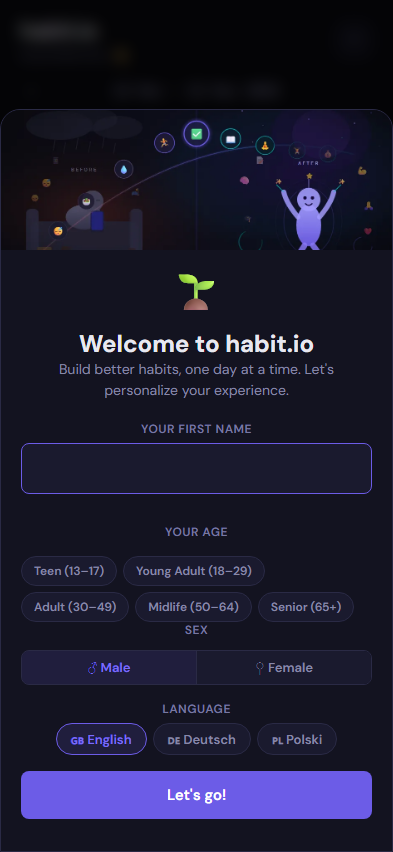
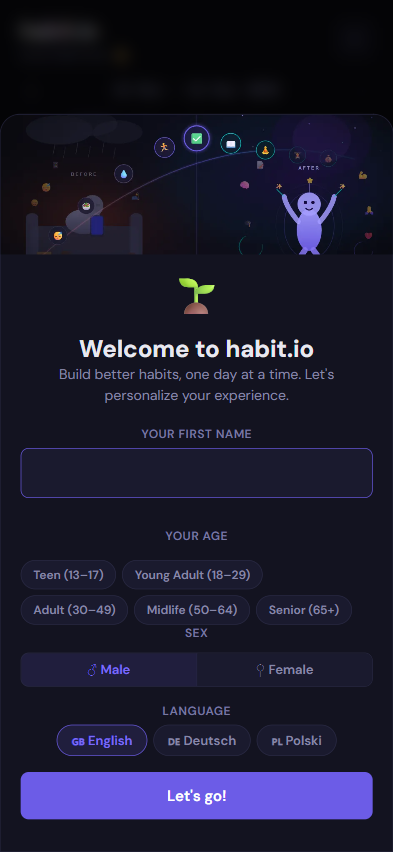
fix: full-screen onboarding on mobile — hero visible, CTA always on screen
Restructured welcome modal to flex-column layout occupying full 100dvh:
hero image pinned top, form fields scrollable in middle, Let's go! CTA
sticky at bottom so it is never hidden below the fold on small devices.

diff --git a/index.html b/index.html
@@ -161,58 +161,53 @@
 
     <!-- WELCOME MODAL -->
     <div class="modal-overlay" id="welcome-modal">
-      <div class="modal" style="text-align: center; padding-top: 0; overflow: hidden">
-        <div style="margin: 0 -24px 16px; border-radius: 14px 14px 0 0; overflow: hidden; line-height: 0">
+      <div class="modal welcome-modal-inner">
+        <!-- Hero image pinned at top -->
+        <div class="welcome-hero">
           <picture>
             <source srcset="icons/hero-onboarding.webp" type="image/webp" />
-            <img src="icons/hero-onboarding.png" alt="" width="400" height="140" fetchpriority="high" style="width: 100%; height: 140px; object-fit: cover; object-position: center 30%" />
+            <img src="icons/hero-onboarding.png" alt="" width="400" height="140" fetchpriority="high" />
           </picture>
         </div>
-        <div style="font-size: 36px; margin: 0 0 12px">🌱</div>
-        <h2 id="welcome-title">Welcome to Habitio</h2>
-        <p
-          style="
-            font-size: 14px;
-            color: var(--text-dim);
-            margin-bottom: 20px;
-            line-height: 1.5;
-          "
-          id="welcome-sub"
-        ></p>
-        <div class="welcome-field">
-          <label id="wl-name-label" for="welcome-name">Your first name</label
-          ><input
-            class="modal-input"
-            id="welcome-name"
-            type="text"
-            maxlength="20"
-            autocomplete="given-name"
-          />
-        </div>
-        <div class="welcome-field" style="gap:12px">
-          <div style="display:flex;flex-direction:column;gap:6px">
-            <label id="wl-age-label">Your age</label>
-            <div class="age-chips" id="welcome-age-chips"></div>
+        <!-- Scrollable form content -->
+        <div class="welcome-scroll">
+          <div style="font-size: 36px; margin: 0 0 10px; text-align:center">🌱</div>
+          <h2 id="welcome-title" style="text-align:center">Welcome to Habitio</h2>
+          <p id="welcome-sub" style="font-size:14px;color:var(--text-dim);margin-bottom:20px;line-height:1.5;text-align:center"></p>
+          <div class="welcome-field">
+            <label id="wl-name-label" for="welcome-name">Your first name</label
+            ><input
+              class="modal-input"
+              id="welcome-name"
+              type="text"
+              maxlength="20"
+              autocomplete="given-name"
+            />
           </div>
-          <div style="display:flex;flex-direction:column;gap:6px">
-            <label id="wl-sex-label">Sex</label>
-            <div class="sex-toggle" id="welcome-sex">
-              <button class="sex-btn active" id="sex-male" onclick="setSex('male')" type="button">♂ <span id="sex-male-lbl">Male</span></button>
-              <button class="sex-btn" id="sex-female" onclick="setSex('female')" type="button">♀ <span id="sex-female-lbl">Female</span></button>
+          <div class="welcome-field" style="gap:12px">
+            <div style="display:flex;flex-direction:column;gap:6px">
+              <label id="wl-age-label">Your age</label>
+              <div class="age-chips" id="welcome-age-chips"></div>
+            </div>
+            <div style="display:flex;flex-direction:column;gap:6px">
+              <label id="wl-sex-label">Sex</label>
+              <div class="sex-toggle" id="welcome-sex">
+                <button class="sex-btn active" id="sex-male" onclick="setSex('male')" type="button">♂ <span id="sex-male-lbl">Male</span></button>
+                <button class="sex-btn" id="sex-female" onclick="setSex('female')" type="button">♀ <span id="sex-female-lbl">Female</span></button>
+              </div>
             </div>
           </div>
+          <div class="welcome-field">
+            <label id="wl-lang-label">Language</label>
+            <div class="lang-chips" id="welcome-lang-chips"></div>
+          </div>
         </div>
-        <div class="welcome-field">
-          <label id="wl-lang-label">Language</label>
-          <div class="lang-chips" id="welcome-lang-chips"></div>
+        <!-- CTA pinned at bottom -->
+        <div class="welcome-cta">
+          <button class="modal-btn primary" onclick="finishWelcome()" id="welcome-go-btn">
+            Let's go!
+          </button>
         </div>
-        <button
-          class="modal-btn primary"
-          onclick="finishWelcome()"
-          id="welcome-go-btn"
-        >
-          Let's go!
-        </button>
       </div>
     </div>
 

diff --git a/styles.css b/styles.css
@@ -1242,7 +1242,55 @@
         color: var(--text-muted);
         margin-top: 8px;
       }
-      /* Welcome modal */
+      /* ── Welcome / onboarding modal — full-screen on mobile ── */
+      #welcome-modal {
+        align-items: stretch;
+        background: var(--bg);
+        backdrop-filter: none;
+        animation: fadeIn 0.25s ease;
+      }
+      .welcome-modal-inner {
+        display: flex;
+        flex-direction: column;
+        height: 100dvh;
+        height: 100vh; /* fallback */
+        max-height: none;
+        width: 100%;
+        max-width: 480px;
+        margin: 0 auto;
+        border-radius: 0;
+        padding: 0;
+        overflow: hidden;
+        animation: none;
+      }
+      .welcome-hero {
+        flex-shrink: 0;
+        line-height: 0;
+      }
+      .welcome-hero img {
+        width: 100%;
+        height: 160px;
+        object-fit: cover;
+        object-position: center 30%;
+      }
+      .welcome-scroll {
+        flex: 1;
+        overflow-y: auto;
+        -webkit-overflow-scrolling: touch;
+        padding: 20px 24px 12px;
+      }
+      .welcome-cta {
+        flex-shrink: 0;
+        padding: 12px 24px calc(16px + env(safe-area-inset-bottom, 0px));
+        background: var(--bg);
+        border-top: 1px solid var(--border);
+      }
+      .welcome-cta .modal-btn {
+        margin: 0;
+        width: 100%;
+      }
+
+      /* Welcome modal fields */
       .welcome-field {
         margin-bottom: 16px;
       }
